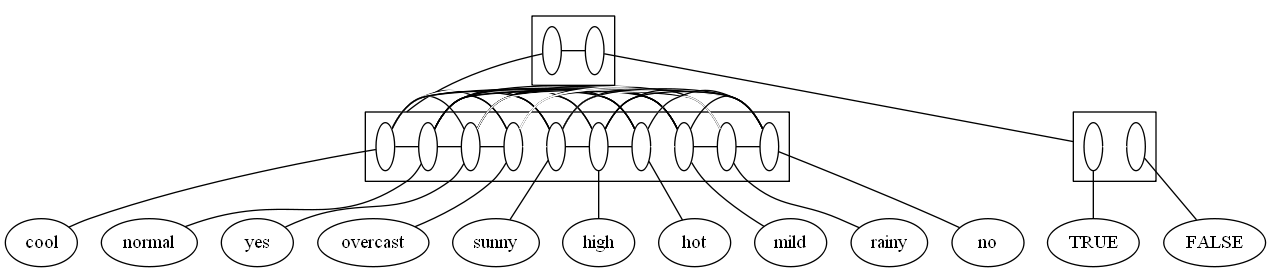
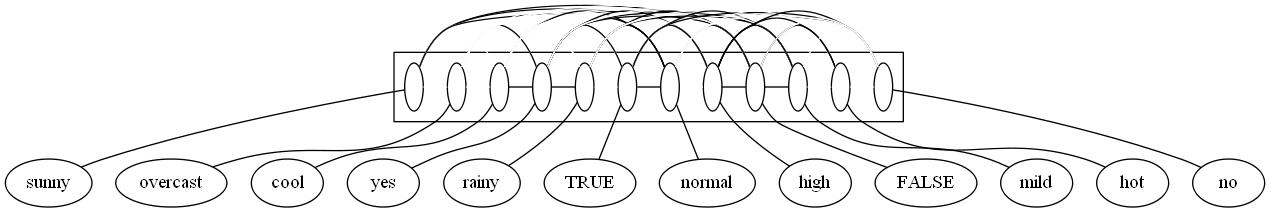
nova opció: graf pla amb umbral

diff --git a/src/final/Graph.py b/src/final/Graph.py
@@ -95,6 +95,40 @@ class Graph:
         return graph
 
     @staticmethod
+    def createPlainGraphWithThreshold(graph, rows, k):
+        """
+        Create a plain graph from rows
+
+        :param graph: NetworkX's graph
+        :param rows: Rows from a tableName
+        :param k: Threshold
+        :type graph: nx.Graph
+        :type k: int
+        :return: Plain graph
+        :rtype: nx.Graph
+        """
+        # labeling edges
+        dictionary = dict()
+        for row in rows:
+            for (u, v) in itertools.combinations(row, 2):
+                if (u, v) in dictionary.keys():
+                    dictionary[(u, v)] = dictionary.get((u, v)) + 1
+                    graph.edge[u][v]['label'] += 1
+                else:
+                    dictionary[(u, v)] = 1
+                    graph.add_edge(u, v, label=1)
+
+        # painting edges by label
+        labels = nx.get_edge_attributes(graph, 'label')
+        for (u, v), label in labels.items():
+            if label < k:
+                graph[u][v]['color'] = 'white'
+            else:
+                graph[u][v]['color'] = 'black'
+        # TODO s'han d'amagar els labels
+        return graph
+
+    @staticmethod
     def createLinearGraph(graph, rows):
         """
         Create a linear graph from rows
@@ -106,14 +140,14 @@ class Graph:
         :rtype: nx.Graph
         """
         # labeling edges
-        d = dict()
+        dictionary = dict()
         for row in rows:
             for (u, v) in itertools.combinations(row, 2):
-                if (u, v) in d.keys():
-                    d[(u, v)] = d.get((u, v)) + 1
+                if (u, v) in dictionary.keys():
+                    dictionary[(u, v)] = dictionary.get((u, v)) + 1
                     graph.edge[u][v]['label'] += 1
                 else:
-                    d[(u, v)] = 1
+                    dictionary[(u, v)] = 1
                     graph.add_edge(u, v, label=1)
 
         # painting edges by label

diff --git a/src/final/mainGraph.py b/src/final/mainGraph.py
@@ -19,7 +19,7 @@ if __name__ == '__main__':
     graph, rows = Graph.initializeGraph(fileDB, tableName)
 
     option = int(input("Please enter the option of graph you want to create:\n [1] = plain\n [2] = linear\n [3] "
-                       "= exponential\n"))
+                       "= exponential\n [4] = plain with threshold\n"))
     if option == 1:
         plainGraph = Graph.createPlainGraph(graph, rows)
         Graph.exportGraphDOT(graph, 'plainGraph.dot')
@@ -29,3 +29,7 @@ if __name__ == '__main__':
     elif option == 3:
         exponentialGraph = Graph.createExponentialGraph(graph, rows)
         Graph.exportGraphDOT(graph, 'exponentialGraph.dot')
+    elif option == 4:
+        threshold = int(input("Please enter the k constant for the threshold:\n"))
+        plainGraph = Graph.createPlainGraphWithThreshold(graph, rows, threshold)
+        Graph.exportGraphDOT(graph, 'plainGraphWithThreshold.dot')

diff --git a/src/final/mainEstructura.py b/src/final/mainEstructura.py
@@ -47,7 +47,13 @@ if __name__ == "__main__":
     option = int(input("Please enter the option of graph you want to create:\n [1] = plain\n [2] = linear\n [3] "
                        "= exponential\n"))
     if option == 1:
-        plainGraph = Graph.createPlainGraph(graph, rows)
+        optionPlain = int(input("Please enter the option of plain graph you want to create:\n [1] = plain\n [2] = "
+                                "plain with threshold\n"))
+        if optionPlain == 1:
+            plainGraph = Graph.createPlainGraph(graph, rows)
+        elif optionPlain == 2:
+            threshold = int(input("Please enter the k constant for the threshold:\n"))
+            plainGraph = Graph.createPlainGraphWithThreshold(graph, rows, threshold)
         Estructura.plain2structure(plainGraph, plainGraph.nodes())
     elif option == 2:
         linearGraph = Graph.createLinearGraph(graph, rows)

diff --git a/src/final/Subset.py b/src/final/Subset.py
@@ -36,7 +36,7 @@ class Subset:
         :return: List of all subsets from a graph
         :rtype: list
         """
-        subsetList = []
+        subsetList = list()
         for subset in Subset.powerset_generator(nodes):  # Subset iterator of each set in nodes
             subsetList.append(subset)  # Add subset to the list
         return subsetList
